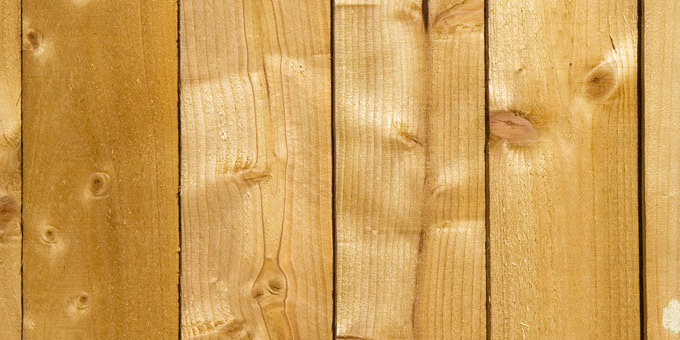
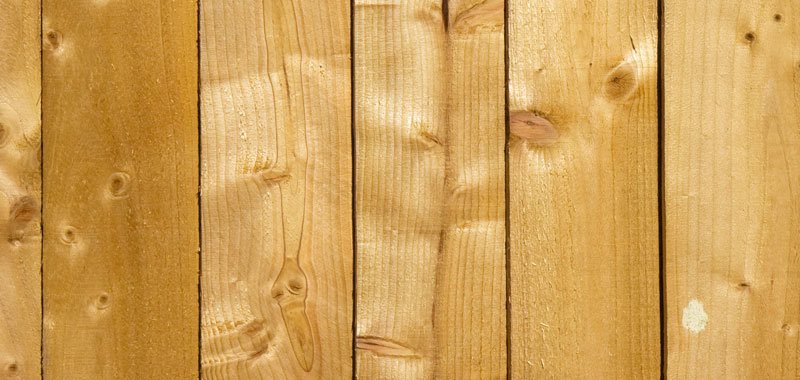
More slideshow changes...
Almost works now...

diff --git a/slideshow/css/imageslidermaker.css b/slideshow/css/imageslidermaker.css
@@ -1,12 +1,12 @@
-#slideshow {
-  width: 680px;
-  max-width: 680px;
-  height: 340px;
-  border-radius: 6px;
+#imageslider {
+  width: 800px;
+  max-width: 800px;
+  height: 380px;
+  border-radius: 5px;
   line-height: 1;
 }
 
-#slideshow ul.bjqs {
+#imageslider ul.bjqs {
   position:relative;
   list-style:none;
   padding:0;
@@ -16,16 +16,16 @@
   border-radius:inherit;
 }
 
-#slideshow li.bjqs-slide {
+#imageslider li.bjqs-slide {
   position:absolute;
   display:none;
   border-radius:inherit;
-  border-radius: 6px;
+  border-radius: 5px;
   background-repeat: no-repeat;
   background-color: #ccc;
 }
 
-#slideshow ul.bjqs li .caption {
+#imageslider ul.bjqs li .caption {
   display: block;
   box-sizing: border-box;
   -moz-box-sizing: border-box;
@@ -37,7 +37,7 @@
   background-repeat: repeat;
   color: #fff;
   bottom: 0;
-  border-radius: 0 0 6px 6px;
+  border-radius: 0 0 5px 5px;
   background-image: url(../images/ui/bg-black-70.png);
   text-align: left;
   padding-left: 20px;
@@ -50,14 +50,14 @@
   font-style: normal;
 }
 
-#slideshow ul.bjqs-controls {
+#imageslider ul.bjqs-controls {
   list-style:none;
   margin:0;
   padding:0;
   z-index:9999;
 }
 
-#slideshow ul.bjqs-controls li a {
+#imageslider ul.bjqs-controls li a {
   position:absolute;
   text-decoration: none;
   background-color: transparent;
@@ -74,29 +74,29 @@
   font-style: normal;
 }
 
-#slideshow ul.bjqs-controls li.bjqs-prev a {
+#imageslider ul.bjqs-controls li.bjqs-prev a {
   left:0;
 }
 
-#slideshow ul.bjqs-controls li.bjqs-next a {
+#imageslider ul.bjqs-controls li.bjqs-next a {
   right:0;
 }
 
-#slideshow ul.bjqs-controls li a:hover {
+#imageslider ul.bjqs-controls li a:hover {
   background-color: #000 !important;
 }
 
-#slideshow ul.bjqs-controls li.bjqs-prev a {
+#imageslider ul.bjqs-controls li.bjqs-prev a {
   border-top-right-radius: 4px;
   border-bottom-right-radius: 4px;
 }
 
-#slideshow ul.bjqs-controls li.bjqs-next a {
+#imageslider ul.bjqs-controls li.bjqs-next a {
   border-top-left-radius: 4px;
   border-bottom-left-radius: 4px;
 }
 
-#slideshow ol.bjqs-markers {
+#imageslider ol.bjqs-markers {
   list-style: none;
   padding: 0;
   margin: 0;
@@ -104,16 +104,16 @@
   text-align: right;
 }
 
-#slideshow ol.bjqs-markers {
+#imageslider ol.bjqs-markers {
   margin: 4px 0;
 }
 
-#slideshow ol.bjqs-markers li {
+#imageslider ol.bjqs-markers li {
   display:inline;
   margin: 0 2px;
 }
 
-#slideshow ol.bjqs-markers li a {
+#imageslider ol.bjqs-markers li a {
   display:inline-block;
   margin: 0;
   text-decoration: none;
@@ -130,26 +130,36 @@
   font-style: normal;
 }
 
-#slideshow ol.bjqs-markers li.active-marker a {
+#imageslider ol.bjqs-markers li.active-marker a {
   background-color: #000 !important;
 }
 
-#slideshow ol.bjqs-markers li a:hover {
+#imageslider ol.bjqs-markers li a:hover {
   background-color: #000 !important;
 }
 
-#slideshow ul.bjqs li.slide-1 {
-  background-image: url(../images/slides/_u/1407091594722_701375.gif);
+#imageslider ul.bjqs li.slide-1 {
+  background-image: url(../images/slides/bl_16510.jpg);
   background-position: 0 0;
 }
 
-#slideshow ul.bjqs li.slide-2 {
+#imageslider ul.bjqs li.slide-2 {
   background-image: url(../images/slides/or_1282.jpg);
   background-position: 0 0;
 }
 
-#slideshow ul.bjqs li.slide-3 {
-  background-image: url(../images/slides/_u/1407091594990_944176.jpg);
+#imageslider ul.bjqs li.slide-3 {
+  background-image: url(../images/slides/gr_41396.jpg);
+  background-position: 0 0;
+}
+
+#imageslider ul.bjqs li.slide-4 {
+  background-image: url(../images/slides/wh_22125.jpg);
+  background-position: 0 0;
+}
+
+#imageslider ul.bjqs li.slide-5 {
+  background-image: url(../images/slides/or_565.jpg);
   background-position: 0 0;
 }
 

diff --git a/index.html b/index.html
@@ -15,6 +15,22 @@
   <link type='text/css' rel='Stylesheet' href='http://fonts.googleapis.com/css?family=Titillium+Web:300,400'>
   <script src='http://ajax.googleapis.com/ajax/libs/jquery/1.10.2/jquery.min.js'></script>
   <script src='slideshow/js/bjqs-1.3-imageslidermaker.js'></script>
+<script>
+  $(function() {
+    $('#imageslider').bjqs({
+      width: 800,
+      height: 380,
+      animtype: 'fade',
+      responsive: false,
+      automatic: true,
+      keyboardnav: false,
+      markertype: '1',
+      prevtext: 'Prev',
+      nexttext: 'Next'
+    });
+  });
+  </script>
+
       
 
 		<!-- Meta tags -->
@@ -61,8 +77,10 @@
 				</ul>
   			</li>
 		</ul>
+
+<!--End Navbar -->        
 <br>
-        <div id="imageslider">
+  <div id="imageslider">
     <ul class="bjqs">
       <li class="slide-1">
         <div class="caption">Slide 1 Caption</div>
@@ -72,6 +90,12 @@
       </li>
       <li class="slide-3">
         <div class="caption">Slide 3 Caption</div>
+      </li>
+      <li class="slide-4">
+        <div class="caption">Slide 4 Caption</div>
+      </li>
+      <li class="slide-5">
+        <div class="caption">Slide 5 Caption</div>
       </li>
     </ul>
   </div>
@@ -104,21 +128,7 @@ Friday & Saturday 5:00pm - 11:00pm</p>
 		<script type="text/javascript" src = "js/scrolling.js"></script> 
 		<script type="text/javascript" src = "js/sidebar.js"></script>
 		<script type="text/javascript" src = "js/stuff.js">new stuff.init();</script>
-        <script>
-  $(function() {
-    $('#imageslider').bjqs({
-      width: 680,
-      height: 340,
-      animtype: 'fade',
-      responsive: false,
-      automatic: true,
-      keyboardnav: false,
-      markertype: '1',
-      prevtext: 'Prev',
-      nexttext: 'Next'
-    });
-  });
-  </script>
+
 		<script src="http://cdnjs.cloudflare.com/ajax/libs/gsap/latest/TweenMax.min.js">
     </script>
 	</body>

diff --git a/slideshow/example/example.html b/slideshow/example/example.html
@@ -9,9 +9,9 @@
     <script src="../js/bjqs-1.3-imageslidermaker.js"></script>
     <script>
       $(function() {
-        $("#slideshow").bjqs({
-          width: 680,
-          height: 340,
+        $("#imageslider").bjqs({
+          width: 800,
+          height: 380,
           animtype: "fade",
           responsive: false,
           automatic: true,
@@ -28,7 +28,7 @@
     <h1>Image Slider Maker Example</h1>
 
     <!-- Generated using ImageSliderMaker.com -->
-    <div id="slideshow">
+    <div id="imageslider">
       <ul class="bjqs">
         <li class="slide-1">
           <div class="caption">Slide 1 Caption</div>
@@ -38,6 +38,12 @@
         </li>
         <li class="slide-3">
           <div class="caption">Slide 3 Caption</div>
+        </li>
+        <li class="slide-4">
+          <div class="caption">Slide 4 Caption</div>
+        </li>
+        <li class="slide-5">
+          <div class="caption">Slide 5 Caption</div>
         </li>
       </ul>
     </div>
